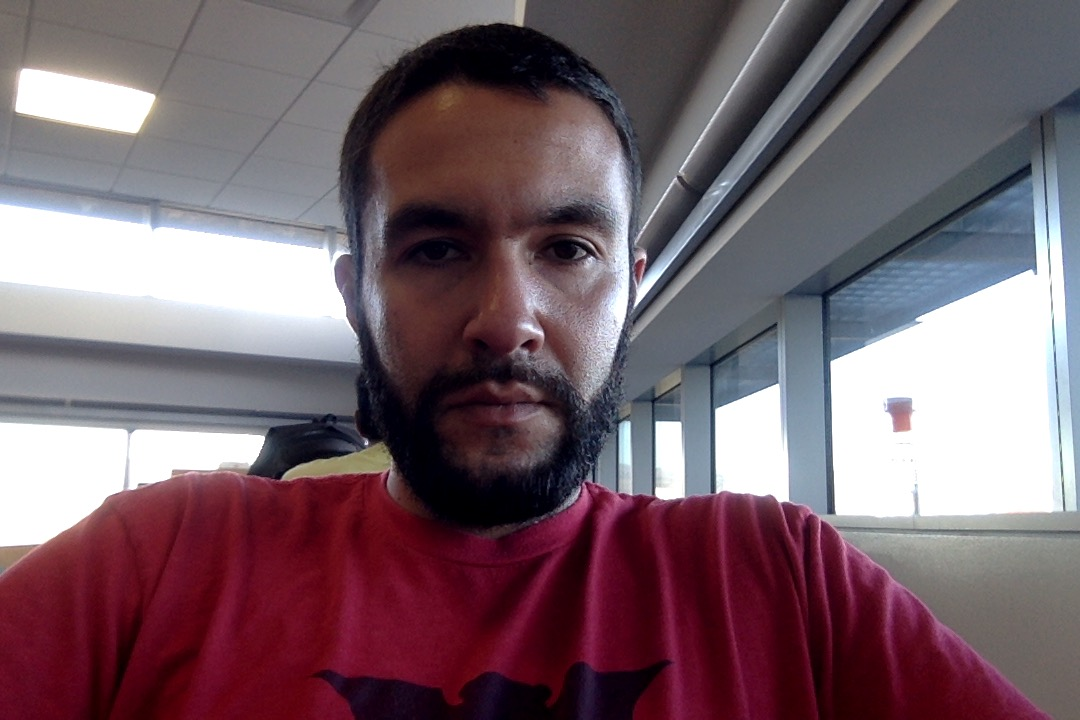
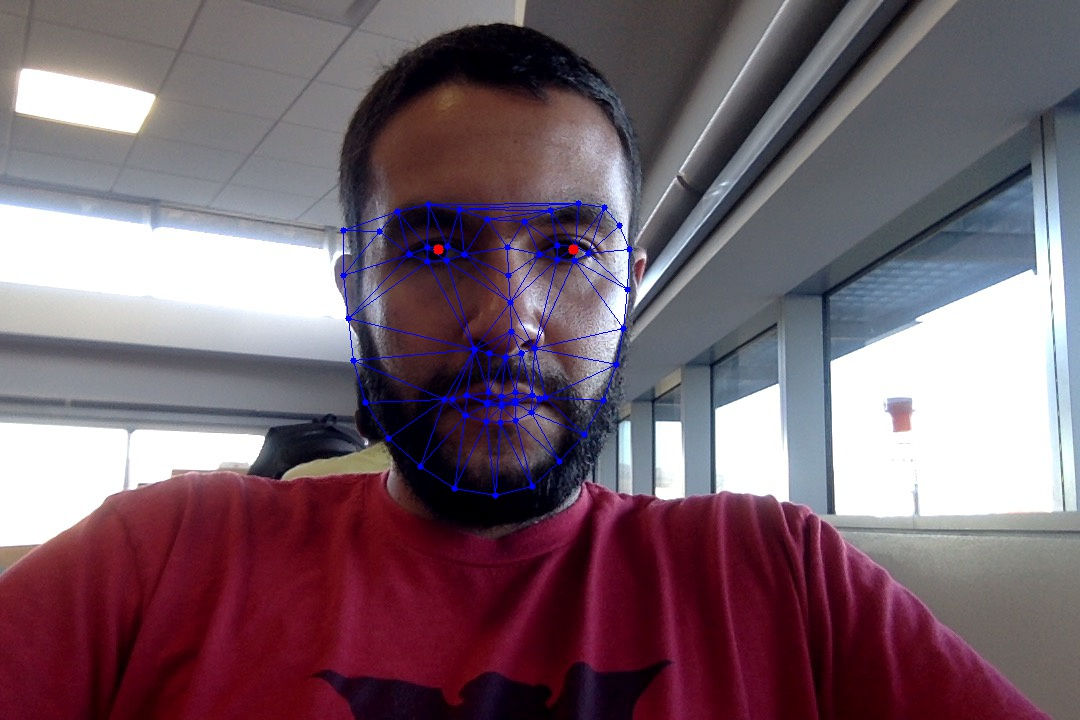
Fixing pupil placement

Changed region(s): [[0.3056, 0.275, 0.6111, 0.7028]]

diff --git a/backend/facefinder/core/eyeLike/src/wrapper.cpp b/backend/facefinder/core/eyeLike/src/wrapper.cpp
@@ -80,16 +80,35 @@ std::string findEyes(cv::Mat frame_gray, cv::Rect face) {
   rightRightCornerRegion.x += rightPupil.x;
   rightRightCornerRegion.height /= 2;
   rightRightCornerRegion.y += rightRightCornerRegion.height / 2;
+  
+  std::cout << face.x << " " << face.y << " " << face.width << std::endl;
+  std::cout << leftEyeRegion.x << " " << leftEyeRegion.y << " " << leftEyeRegion.width << std::endl;
+  std::cout << leftRightCornerRegion.x << " " << leftRightCornerRegion.y << " " << leftRightCornerRegion.width << std::endl;
+  std::cout << leftLeftCornerRegion.x << " " << leftLeftCornerRegion.y << " " << leftLeftCornerRegion.width << std::endl;
+  std::cout << rightEyeRegion.x << " " << rightEyeRegion.y << " " << rightEyeRegion.width << std::endl; 
+  std::cout << rightLeftCornerRegion.x << " " << rightLeftCornerRegion.y << " " << rightLeftCornerRegion.width << std::endl;
+  std::cout << rightRightCornerRegion.x << " " << rightRightCornerRegion.y << " " << rightRightCornerRegion.width << std::endl;
+  std::cout << eye_region_width << std::endl;
+/*
+391 103 369
+47 92 129
+119 119 57
+47 119 72
+192 92 129
+192 119 62
+254 119 67
+129
+*/
   // change eye centers to face coordinates
-  rightPupil.x += rightEyeRegion.x;
-  rightPupil.y += rightEyeRegion.y;
-  leftPupil.x += leftEyeRegion.x;
-  leftPupil.y += leftEyeRegion.y;
+  rightPupil.x  +=  rightEyeRegion.x  + face.x - leftLeftCornerRegion.width;
+  rightPupil.y  +=  rightEyeRegion.y  + face.y;
+  leftPupil.x   +=  leftEyeRegion.x   + face.x - leftLeftCornerRegion.width;
+  leftPupil.y   +=  leftEyeRegion.y   + face.y;
   // draw eye centers
-  circle(faceROI, leftPupil, 3, 0);
-  ss << leftPupil.x << "," << leftPupil.y << ";";
-  circle(faceROI, rightPupil, 3, 0);
-  ss << rightPupil.x << "," << rightPupil.y  << "/";
+  //circle(faceROI, leftPupil, 3, 0);
+  //circle(faceROI, rightPupil, 3, 0);
+  ss << leftPupil.x  << "," <<  leftPupil.y   << ";";
+  ss << rightPupil.x << "," <<  rightPupil.y  << "/";
 
   
 
@@ -107,12 +126,12 @@ std::string findEyes(cv::Mat frame_gray, cv::Rect face) {
     cv::Point2f rightRightCorner = findEyeCorner(faceROI(rightRightCornerRegion), false, false);
     rightRightCorner.x += rightRightCornerRegion.x;
     rightRightCorner.y += rightRightCornerRegion.y;
-    circle(faceROI, leftRightCorner, 3, 100);
-    circle(faceROI, leftLeftCorner, 3, 500);
-    circle(faceROI, rightLeftCorner, 3, 200);
-    circle(faceROI, rightRightCorner, 3, 200);
+    // circle(faceROI, leftRightCorner, 3, 100);
+    // circle(faceROI, leftLeftCorner, 3, 500);
+    // circle(faceROI, rightLeftCorner, 3, 200);
+    // circle(faceROI, rightRightCorner, 3, 200);
   }
-  imshow(face_window_name, faceROI);
+  // imshow(face_window_name, faceROI);
   return ss.str();
 }
 
@@ -149,15 +168,10 @@ std::string detectAndDisplay( cv::Mat frame ) {
 
   //-- Detect faces
   face_cascade.detectMultiScale( frame_gray, faces, 1.1, 2, 0|CV_HAAR_SCALE_IMAGE|CV_HAAR_FIND_BIGGEST_OBJECT, cv::Size(150, 150) );
-//  findSkin(debugImage);
 
   for( int i = 0; i < faces.size(); i++ ){
     rectangle(debugImage, faces[i], 1234);
   }
-  //-- Show what you got
-  // if (faces.size() > 0) {
-  //   eyes += findEyes(frame_gray, faces[0]);
-  // }
   for (int i = 0; i < faces.size() ; i++){
   	eyes += findEyes(frame_gray, faces[i]);
   }
@@ -196,7 +210,6 @@ const char *eyes_in_video(char* name){
 	        	printf(" --(!) No captured frame -- Break!");
 	        	break;
 	      	}
-	      	imshow(main_window_name,debugImage);
 		}
 	}
 	return all_eyes.c_str();

diff --git a/backend/facefinder/core/points_68.py b/backend/facefinder/core/points_68.py
@@ -112,10 +112,19 @@ class ImageProcessor():
                 counter = counter + 1
 
             self.draw_triangles(img, pointList)
+<<<<<<< Updated upstream
 
             # for pupil in pupils:
             #     cv2.circle(img, (pupil.left.x, pupil.left.y), 5, (0,0,255), -1)
             #     cv2.circle(img, (pupil.right.x, pupil.right.y), 5, (0,0,255), -1)
+=======
+            
+            for pupil in pupils:
+                cv2.circle(img, (pupil.left.x, pupil.left.y), 5, (0,0,255), -1)
+                cv2.circle(img, (pupil.right.x, pupil.right.y), 5, (0,0,255), -1)
+                print(pupil.left.x, ", ", pupil.left.y)
+                print(pupil.right.x, ", ", pupil.right.y)
+>>>>>>> Stashed changes
 
             cv2.imwrite(pic_path, img)
 
@@ -278,8 +287,15 @@ def calculateProportion(pts):
 
 if __name__ == "__main__":
     start_time = time.time()
+<<<<<<< Updated upstream
     # reader = ImageProcessor('/home/andrey/test', 'pic', 'jpg')
     # reader.process_images(1,12)
     # elapsed_time = time.time() - start_time
     # drop_data('/home/andrey/test')
     # print("Sequential execution took %s seconds" % str(elapsed_time))
+=======
+    reader = ImageProcessor('/Users/temp/projects/CS160/backend/facefinder/core/eyeLike/data', 'pic', 'jpg')
+    reader.process_images(1,2)
+    elapsed_time = time.time() - start_time
+    print("Sequential execution took %s seconds" % str(elapsed_time))
+>>>>>>> Stashed changes

diff --git a/backend/facefinder/core/eyeLike/eyeLike.py b/backend/facefinder/core/eyeLike/eyeLike.py
@@ -23,11 +23,11 @@ lib.eyes_in_picture.argtypes = [c_char_p]
 class Point:
 	def __init__(self, x_cord, y_cord):
 		if type(x_cord) == str:
-			self.x = int(x_cord)
+			self.x = int(float(x_cord))
 		else:
 			self.x = x_cord
 		if type(y_cord) == str:
-			self.y = int(y_cord)
+			self.y = int(float(y_cord))
 		else:
 			self.y = y_cord
 
